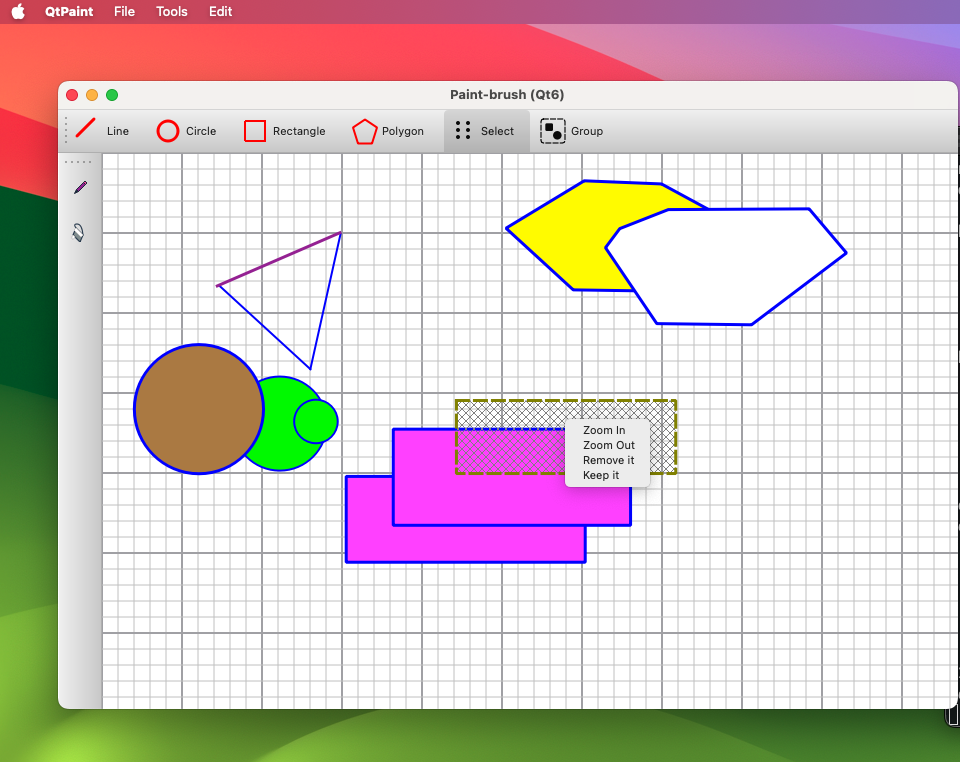
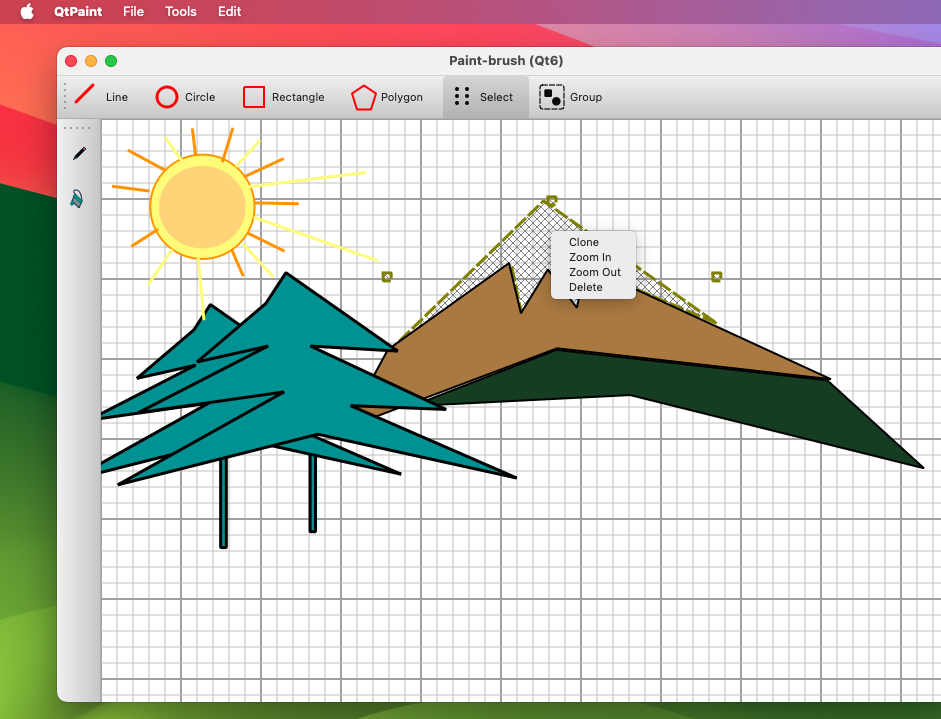
update existing screenshot update existing saved vectorial draw when click and select return if no shapes are available

diff --git a/src/drawing_canvas.cpp b/src/drawing_canvas.cpp
@@ -236,6 +236,8 @@ void DrawingCanvas::mousePressEvent(QMouseEvent *event) {
             m_current_pos = event->position();
         }
         else if (m_mode == ToolMode::Select) {
+            if (m_shapes.size() == 0)
+                return;
             // Select mode
             //------------
             if (m_selected_shape) {
@@ -316,6 +318,8 @@ void DrawingCanvas::mousePressEvent(QMouseEvent *event) {
                 m_shape->addPoint(event->position());
             }
             else if (m_mode == ToolMode::Group) {
+                if (m_shapes.size() == 0)
+                    return;
                 QRectF rect(m_start_pos, m_current_pos);
                 QPen pencil(QPen(Qt::darkGray, 2, Qt::DashLine));
                 m_shape = std::make_unique<RectangleShape>(rect, pencil, m_grouping_brush);
